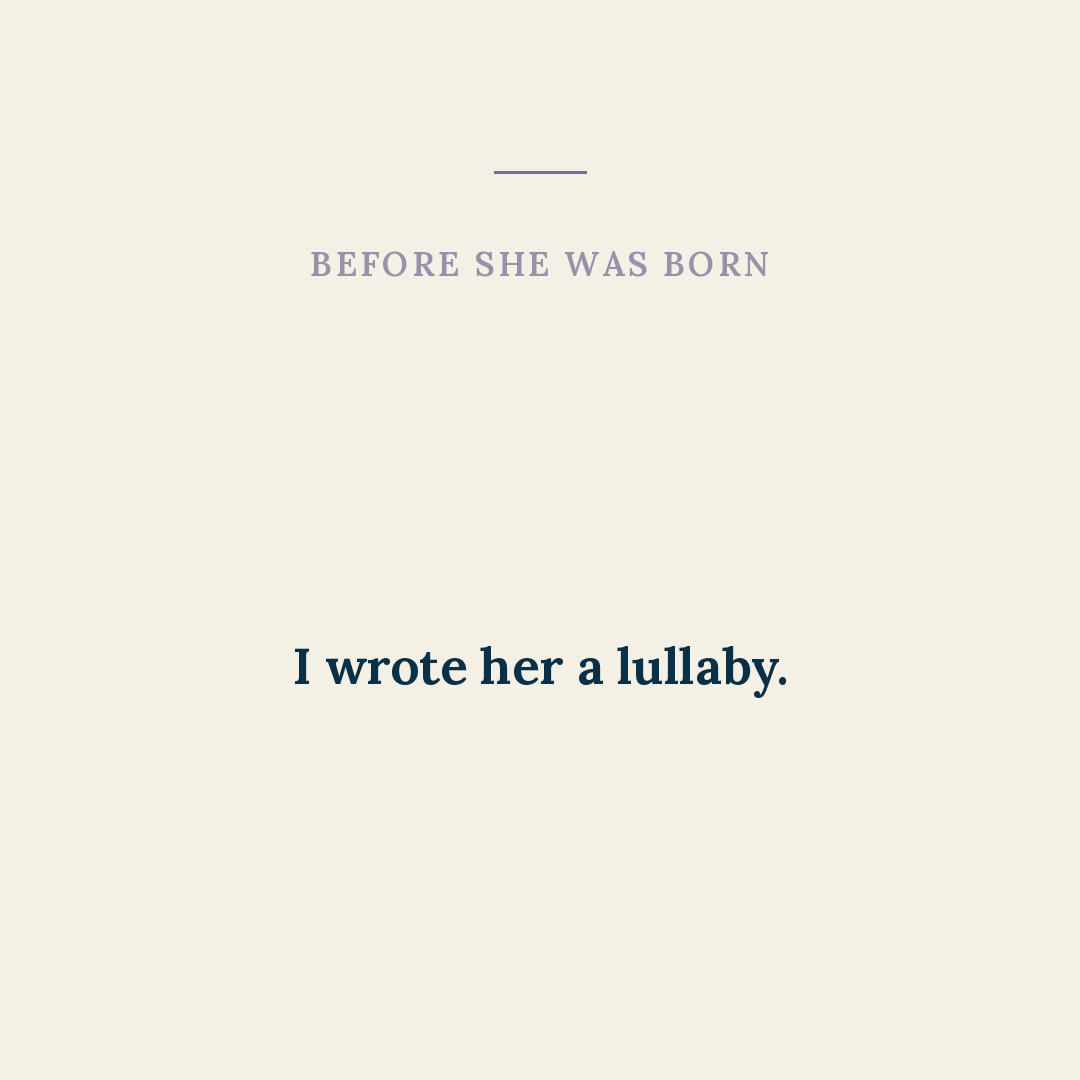
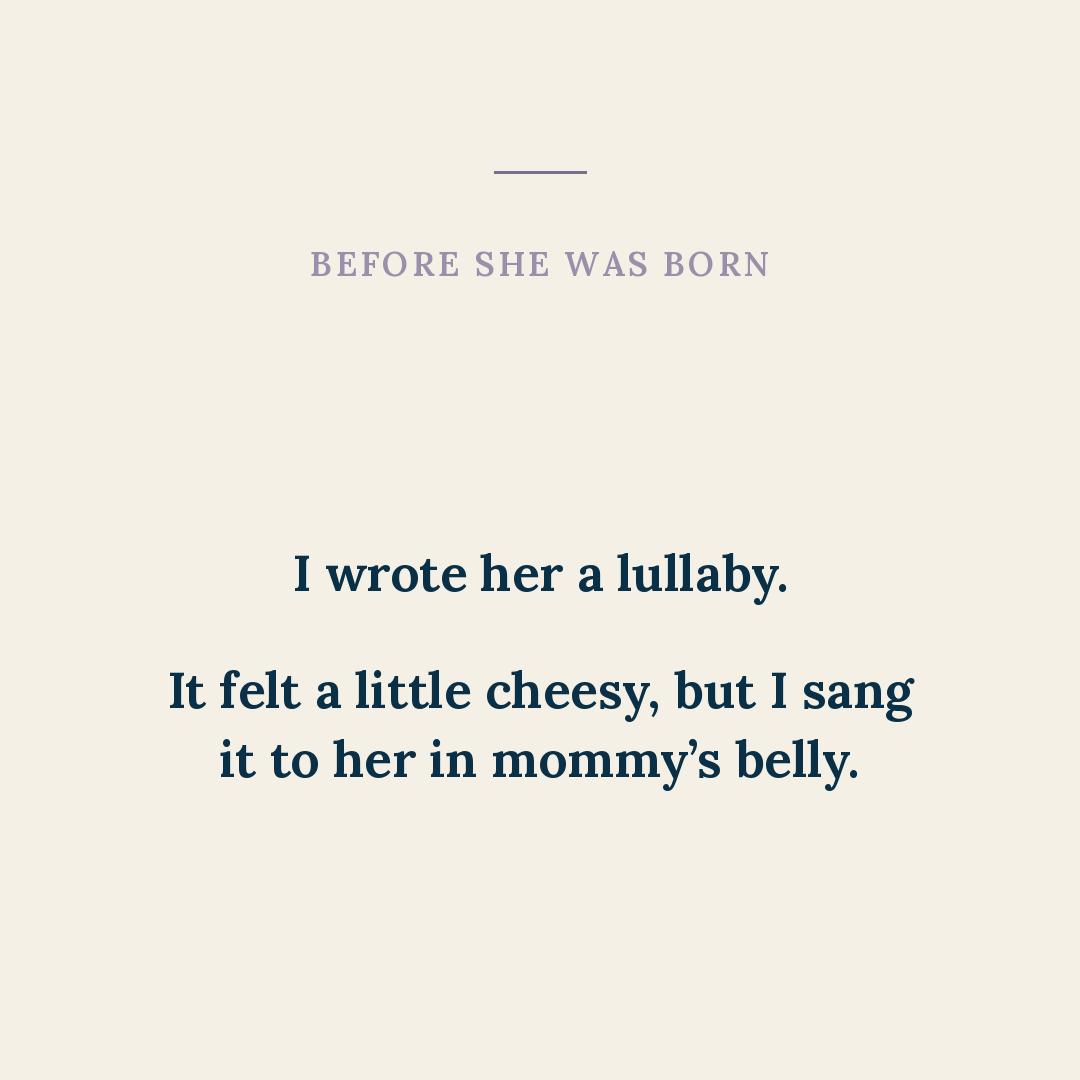
Add story-01-please-stop-singing-daddy (STORY 01 - Please Stop Singing Daddy)

Changed region(s): [[0.1528, 0.5806, 0.8556, 0.7333], [0.275, 0.4889, 0.7333, 0.55]]

diff --git a/posts/story-01-please-stop-singing-daddy/slides.md b/posts/story-01-please-stop-singing-daddy/slides.md
@@ -15,7 +15,7 @@ I sang my daughter the same lullaby every night for 5 years, until she said "Ple
 Here's how we got there.
 
 ## Body
-2 BEFORE SHE WAS BORN — I wrote her a lullaby.
+2 BEFORE SHE WAS BORN — I wrote her a lullaby. / It felt a little cheesy, but I sang it to her in mommy's belly.
 3 NEWBORN — I had no idea how to get my newborn to sleep. / Bouncing. The rocking chair. Rocking while standing. Swaddles. Sleep sacks. The mobile. / The song was one more thing to try.
 4 But it gave me something I needed: a routine. / Something I knew how to do. / A way to give her my love.
 5 6–12 MONTHS — It became her cue that it was time to sleep. / Sometimes she'd get sad when she heard it. She knew the crib was coming.
